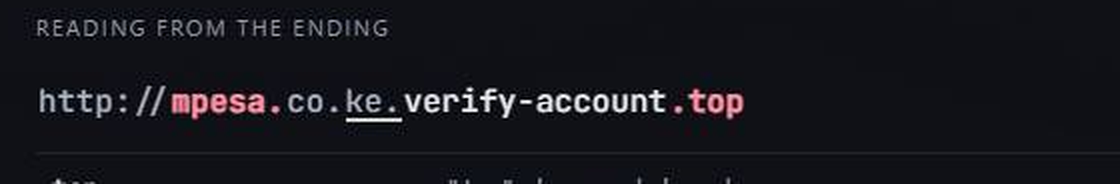
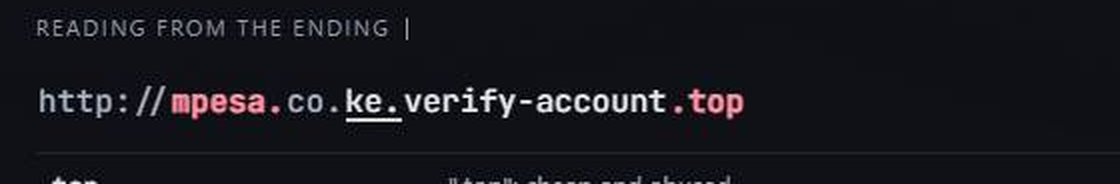
The caret hugs the word on a phone
Each piece is a full-width grid row on a phone, so measuring the element made the caret span the
whole line and read as a rule. It measures the glyphs now, through a Range, and falls back to the
element box if that is not available.

Measured on a 390px viewport: widths 27, 53 and 62px as it steps between pieces, where it used to be
274px regardless.

diff --git a/app/static/app.js b/app/static/app.js
@@ -715,8 +715,16 @@ const TONE = { high: "var(--signal-danger)", medium: "var(--signal-warn)", low: 
         if (!caret) return;
         const host = caret.offsetParent || autopsy;
         const hostBox = host.getBoundingClientRect();
+        /* Measure the glyphs, not the box. On a phone each piece is a full-width grid row, so the
+           element rect made the caret span the whole line and read as a rule rather than a mark. */
         const words = seg.querySelector(".seg-text") || seg;
-        const wb = words.getBoundingClientRect();
+        let wb = words.getBoundingClientRect();
+        try {
+          const range = document.createRange();
+          range.selectNodeContents(words);
+          const glyphs = range.getBoundingClientRect();
+          if (glyphs.width > 0) wb = glyphs;
+        } catch (error) { /* keep the element rect */ }
         caret.style.left = (wb.left - hostBox.left) + "px";
         caret.style.width = Math.max(12, wb.width) + "px";
         caret.style.top = (wb.bottom - hostBox.top - 3) + "px";
